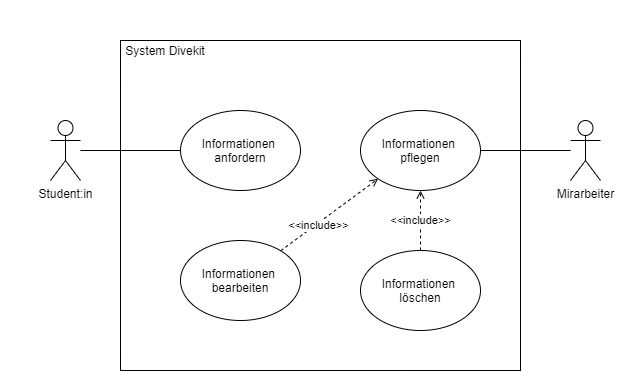
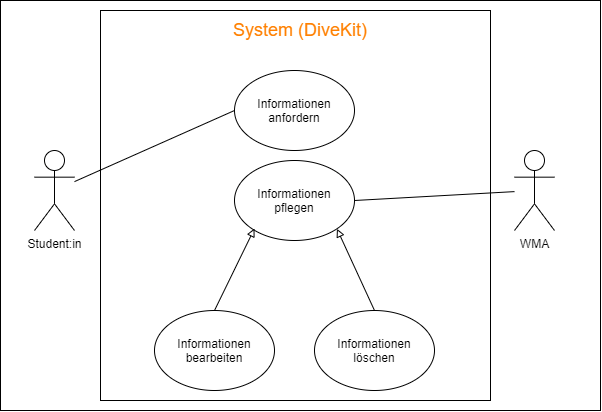
Added stuff

diff --git a/_useCases/InformationenAnfordern.md b/_useCases/InformationenAnfordern.md
@@ -8,9 +8,9 @@ description: Das DiveKit muss in der Lage sein Studierenden weiterführende Info
 primaryActor: studierende
 secondaryActors:
     - wmaAutonomousLecturerInf
-trigger: Student:in stößt auf Fehler.
-precondition: Student:in kann den Fehler nicht adhoc lösen.
-postcondition: Student:in besitzt weitere Informationen zum Fehler.
+trigger: Die Student:in stößt auf einen Fehler auf der Testseite.
+precondition: Die Student:in hat eine Aufgabe bearbeitet und bekommt nach dem pushen der Aufgabe einen Fehler auf der Testseite.
+postcondition: Die Student:in besitzt weitere Informationen zum Fehler.
 functionalRequirement: WeiterfuehrendeInformationen
 history:
     v1:
@@ -22,29 +22,38 @@ history:
     v3:
         date: 2021-07-26
         comment: added missing FR
+    v4:
+        date: 2021-07-29
+        comment: added content from todos
+
 todo: 
-    - (sbe) Das Szenario fängt irgendwie mittendrin an. Was (welche Nutzeraktion) kommt vorher?
-    - (sbe) was ist XYZ? bitte lieber etwas Konkretes nehmen. Ist mir tatsächlich unklar, wenn ich nur das Szenario lese. 
-    - (sbe) Versetzen Sie sich mal in die Situation eines Entwicklungsteams - wären Sie in der Lage, auf der Basis dieser Beschreibung Software zu bauen? Natürlich sollte ein UC keine Implementierung (z.B. backend-seitig) spezifizieren. Aber mir ist auch der Bedienablauf ziemlich unklar, also z.B. _wo_ die Studentin einen Link zur Lösung sieht.
-    - (sbe) Vielleicht kann man zumindest _skizzieren_, wie das System zu dem Vorschlag kommt - z.B. sowas wie Pattern Matching auf eine Exception  
-    - (sbe) Das Alternativszenario sprengt den organisatorischen Rahmen ziemlich gründlich - wenn bei _jedem_ Fehler der WMA Hilfe anbietet. M.E. reicht es, wenn einfach in der Hinweis-Datenbank kein Link hinterlegt ist und da dann steht "keine Ahnung, guck halt selbst in stackoverflow und Buch X, Y und Z" (sinngemäss, grins)
-    - (sbe) Das Ausnahmeszenario bezieht sich auf das Alternativszenario, oder? Unüblich. Eher auf das Hauptszenario. Vielleicht gibts hier kein Ausnahmeszenario. 
 ---
 
 
 ## Hauptszenario
-* 1) Student:in fordert Informationen zum Fehler an.
-* 2) System durchsucht XYZ nach Informationen zum Fehler.
-* 3) System findet Informationen zum Fehler.
-* 4) System zeigt dem Studierenden die Informationen zur Verfügung.
+* 1) Die Student:in kann den Fehler nicht adhoc lösen und wählt auf der Testseite eine Schlatfläche neben der Fehlermeldung aus, um weiter Informationen anzufordern.
+* 2) Das System durchsucht seine Hinweis-Datenbank nach Informationen zum Fehler.
+* 3) Das System findet Informationen zum Fehler.
+* 4) Das System zeigt dem Student:in die Informationen in einem seperaten Dialog an.
 
 ## Alternativszenario
-* 3a1) System findet keine Informationen zum Fehler.
-* 3a2) System informiert WMA und Student:in über fehlende Informationen.
-* 3a3) WMA kontaktiert Student:in und biedet Hilfe an.
+<!-- UC ist zu klein für ein Altervativszenario -->
 
 ## Ausnahmeszenario 
-* 3a1) WMA hat keine Ressourcen nicht freu und lehnt Kontakt ab. 
-* 3a2) System teilt dem Studierenden mit, dass keine Informationen gefunden werden konnten.
+* 3a1) Das System findet keine Informationen zum Fehler.
+* 3a2) Die Student:in bekommt eine Nachricht anzeiget, dass keine Informationen vorhanden sind.
 
-**Andere Nachbedingung**: Student:in besitzt keine weitere Informationen zum Fehler.
+**Andere Nachbedingung**: Die Student:in besitzt keine weitere Informationen zum Fehler.
+
+## Anmerkung:
+Anmerkung des Buisness Analysten: Meiner Meiner nach würde ich die nachfolgenden Spezifizierungen zur Implentierung nicht oder nur "abgespeckt" in den Use Case integieren. Da es die Designentscheidung in der Entwicklung einschränken könnte.
+
+* Die Nachricht bei fehlenden weiterführenden Informationen (3a2) würde etwas wie "Keine Informationen vorhanden. Bitte schauen Sie dem Fehler in einer Suchmaschiene Ihrer Wahl nach." beinhalten.
+* Die erwähnte Schaltfläche kann ein Button oder Ähnliches sein.
+
+### Skizzierung der Fehlermatchings
+
+* Analyse ob es sich hierbei, um eine eigens geschriebene oder eine generische (bspw. MethodNotFound, etc) handelt
+    * Bei eigens geschriebene Fehlermeldung sollte die Nutzer:in darauf hingewiesen werden. Da daduch die Suche in einer Suchmaschinen erschwert werden könnte.
+    * Bei generellen Exception, könnte so etwas wie "Suche bei _Suchmaschiene Ihrer Wahl_ nach _aufgekommener Fehler_" einsetzt werden.  
+* Anschließend die Klassennamen o.Ä. in der Exception analysieren und in der Datenbank (o.Ä.) nach Pattern suchen.

diff --git a/_useCaseDiagrams/InformationenAnfordern.md b/_useCaseDiagrams/InformationenAnfordern.md
@@ -21,12 +21,10 @@ history:
         date: 2021-07-20
         comment: added diagram
     v3:
-        date: 2021-07-20
+        date: 2021-07-29
         comment: added use cases
+
 todo: 
-    - (sbe) im Diagramm heißt es Mitarbeiter und im UC "WMA"
-    - (sbe) im UC kommt der WMA auch vor (bei Alternativszenario). Es gibt aber keine Linie vom WMA zu Information anfordern im Diagramm. 
-    - (sbe) die Include-Beziehungen sind eher Inheritence
 ---
 
 ## Beschreibung
@@ -36,9 +34,8 @@ Die funktionale Anforderung „Weiterführende Informationen“ hängt von den a
 |No.|Interaktion|Akteur|Inhalt|
 |---|-----------|------|------|
 |1|Informationen anfordern|Student:in|Die Student:in ruft weiterführende Informationen zum Fehler ab.|
-|2|Informationen pflegen|WMA|Der Mitarbeiter pflegt die Informationen, welche zu den Fehlern eingebunden sind.|
-|2.1|Informationen bearbeiten|WMA|Der Mitarbeiter erstellt und bearbeitet die Informationen zu den Fehlern.|
-|2.2|Informationen löschen|WMA|Der Mitarbeiter löscht die Informationen zu den Fehlern, wenn diese veraltet oder selbst fehlerhaft sind.|
-
+|2|Informationen pflegen|WMA|Der wissenschaftliche Mitarbeiter (WMA) pflegt die Informationen, welche zu den Fehlern eingebunden sind.|
+|2.1|Informationen bearbeiten|WMA|Der wissenschaftliche Mitarbeiter (WMA) erstellt und bearbeitet die Informationen zu den Fehlern.|
+|2.2|Informationen löschen|WMA|Der wissenschaftliche Mitarbeiter (WMA)  löscht die Informationen zu den Fehlern, wenn diese veraltet oder selbst fehlerhaft sind.|
 
 

diff --git a/_userStories/anzeigenDerInformationen.md b/_userStories/anzeigenDerInformationen.md
@@ -1,0 +1,23 @@
+---
+type: userStory
+acronym: anzeigenDerInformationen
+responsible:
+    - kru
+title: Anzeigen der weiterführenden Informationen
+functionalRequirement: WeiterfuehrendeInformationen
+asA: studentInf
+iWantTo: weiterführende Informationen zu Fehlern, um diese zu lösen
+forThisReason: Damit Fehler besser verstanden und gelöst werden können
+history:
+    v1:
+        date: 2021-07-28
+        comment: initially created
+todo:
+    
+---
+
+## User Story
+Als Studierender der Informatik möchte ich, dass mir zusätzliche Informationen zu meine fehlerhaften Tests angezeigt werden. Damit möchte ich die Zeit verringern, welche ich für die Suche nach Lösungen brauche. Außerdem möchte ich die Fehler ideal lösen.
+
+## Bedingungen
+Der Studierende der Informatik arbeitet mit dem DiveKit und hat eine Aufgabe abgeschlossen. Die abgeschlossene Aufgabe ist fehlerhaft.

diff --git a/_userStories/uebersichtUeberErgebnisse.md b/_userStories/uebersichtUeberErgebnisse.md
@@ -1,0 +1,23 @@
+---
+type: userStory
+acronym: uebersichtUeber
+responsible:
+    - kru
+title: Anzeigen der weiterführenden Informationen
+functionalRequirement: UebersichtErgebnsisse
+asA: studentInf
+iWantTo: weiterführende Informationen zu Fehlern, um diese zu lösen
+forThisReason: Damit Fehler besser verstanden und gelöst werden können
+history:
+    v1:
+        date: 2021-07-28
+        comment: initially created
+todo:
+    
+---
+
+## User Story
+
+
+## Bedingungen
+
